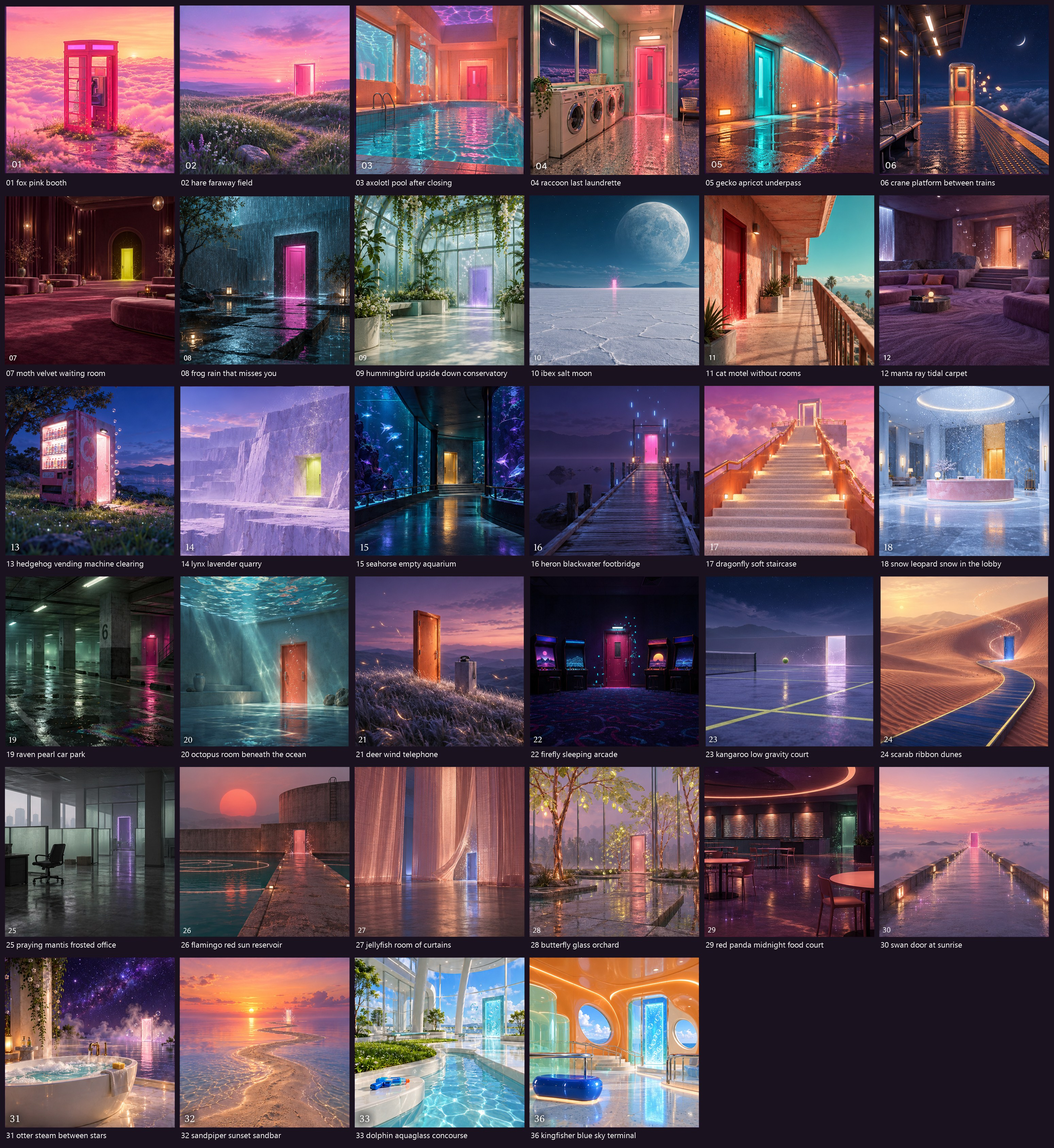
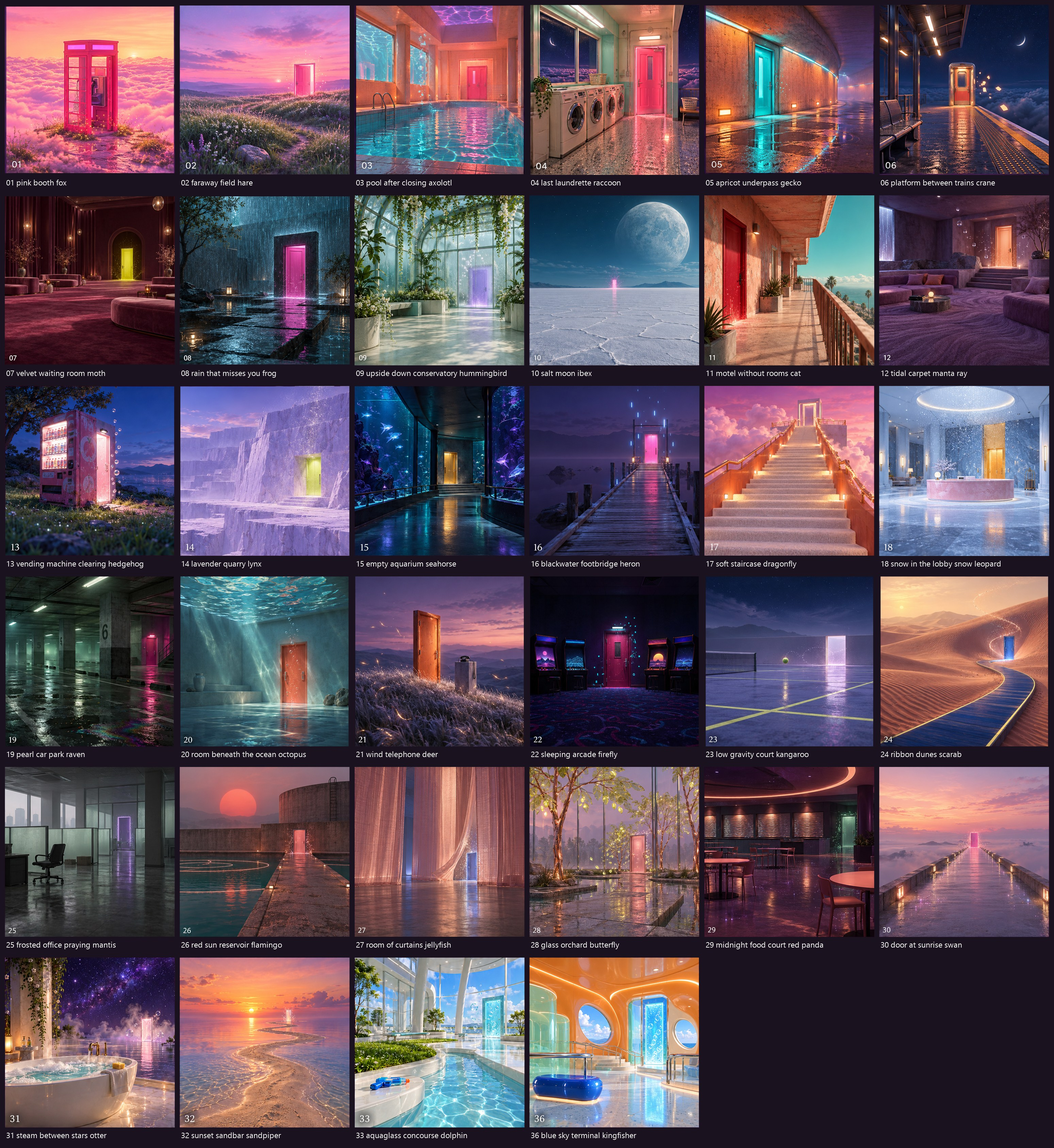
Redline sheet labels read place then animal, like the Collection page
Astra (2026-10-19): "it's the Faraway Field Hare". Same 34-floor layout, 3098 x 3374.

diff --git a/concept-art/README.md b/concept-art/README.md
@@ -9,7 +9,7 @@ The plates were made with OpenAI Codex's built-in image generation on 2026-10-15
   originality check (`../docs/originality-check-20261019.md`) found them copied from other creators' VRChat worlds
   (Crystals Absence by Arkîe, Astral Bounds by Vectriel). Floor numbers are kept, so the collection skips 34, 35 and 37.
 - `floors-contact-sheet-20261019.png`: all 34 at a glance.
-- `liminal-doors-redline-sheet-20261019.jpg`: the same layout at full size (3098 x 3374 px) for redlines in Procreate. The Concept Atlas's "Export all 34 for redlines" button saves this file; the + on each card makes a sheet of just the floors you pick. Send the marked-up sheet back to Claude, and each floor's notes are read by its place on the grid.
+- `liminal-doors-redline-sheet-20261019.jpg`: the same layout at full size (3098 x 3374 px) for redlines in Procreate. The Concept Atlas's "Export all 34 for redlines" button saves this file; the + on each card makes a sheet of just the floors you pick. Labels read "NN place animal", as on the page. Send the marked-up sheet back to Claude, and each floor's notes are read by its place on the grid.
 
 To change a floor, replace its file with your edit. A new date in the name (for example `-20261019`) keeps the original next to it.
 
